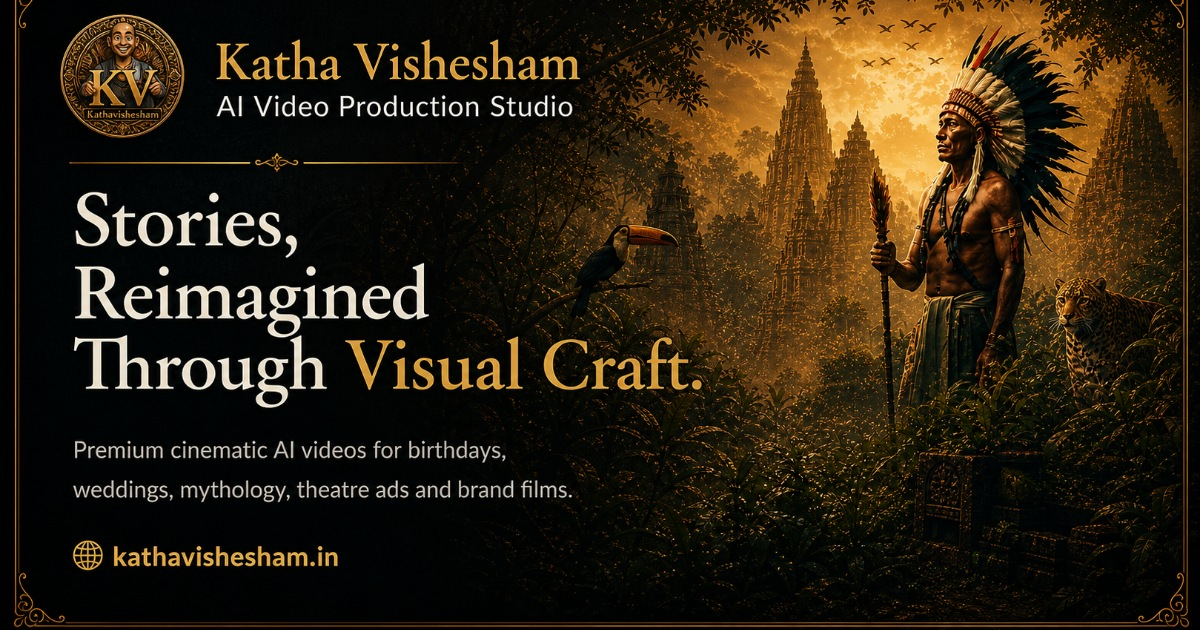
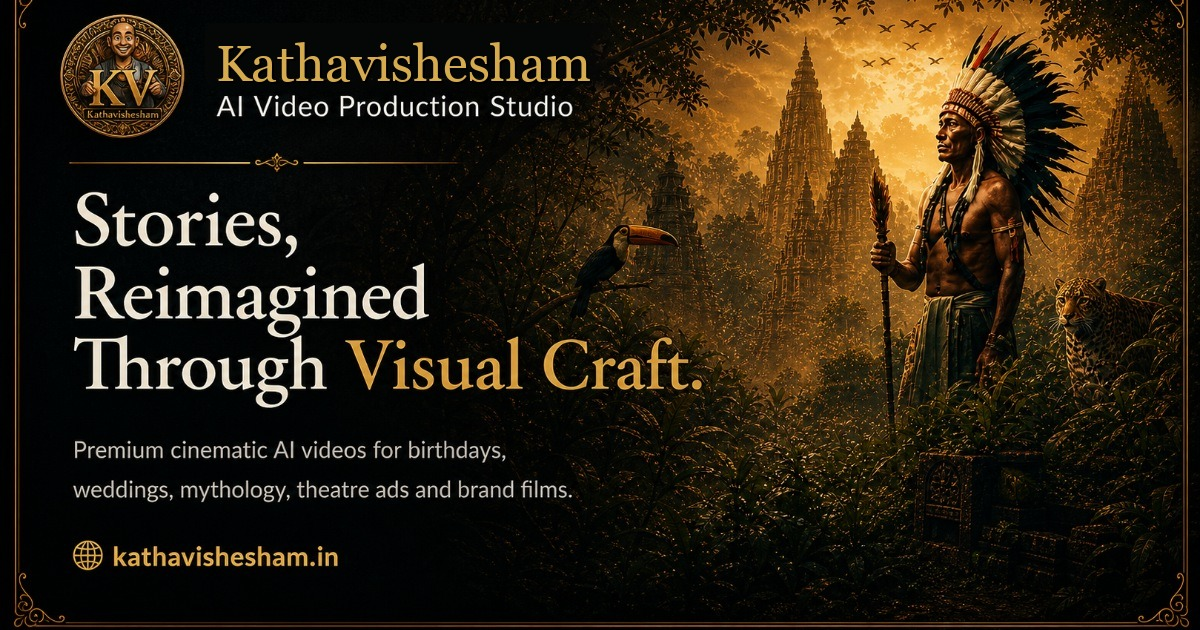
Rename brand to Kathavishesham

Changed region(s): [[0.185, 0.0603, 0.4933, 0.1508], [0.4933, 0.0603, 0.5242, 0.0905]]

diff --git a/index.html b/index.html
@@ -5,33 +5,33 @@
     <meta name="viewport" content="width=device-width, initial-scale=1.0" />
     <meta
       name="description"
-      content="Katha Vishesham creates cinematic AI videos for birthdays, weddings, memories, mythological stories, theatre ads and brand films. WhatsApp the studio for fast custom packages."
+      content="Kathavishesham creates cinematic AI videos for birthdays, weddings, memories, mythological stories, theatre ads and brand films. WhatsApp the studio for fast custom packages."
     />
     <meta name="robots" content="index, follow, max-image-preview:large, max-video-preview:-1, max-snippet:-1" />
-    <meta name="author" content="Katha Vishesham" />
+    <meta name="author" content="Kathavishesham" />
     <meta name="theme-color" content="#070706" />
     <link rel="canonical" href="https://kathavishesham.vercel.app/" />
-    <meta property="og:title" content="Katha Vishesham | Cinematic AI Video Production Studio" />
+    <meta property="og:title" content="Kathavishesham | Cinematic AI Video Production Studio" />
     <meta
       property="og:description"
       content="Premium AI-assisted cinematic storytelling for birthdays, memories, weddings, mythological stories, theatre ads and brand films."
     />
     <meta property="og:url" content="https://kathavishesham.vercel.app/" />
-    <meta property="og:site_name" content="Katha Vishesham" />
-    <meta property="og:image" content="https://kathavishesham.vercel.app/og-katha-vishesham-v2.jpg" />
-    <meta property="og:image:secure_url" content="https://kathavishesham.vercel.app/og-katha-vishesham-v2.jpg" />
+    <meta property="og:site_name" content="Kathavishesham" />
+    <meta property="og:image" content="https://kathavishesham.vercel.app/og-kathavishesham-v2.jpg" />
+    <meta property="og:image:secure_url" content="https://kathavishesham.vercel.app/og-kathavishesham-v2.jpg" />
     <meta property="og:image:width" content="1200" />
     <meta property="og:image:height" content="630" />
-    <meta property="og:image:alt" content="Katha Vishesham cinematic AI video production studio preview card with kathavishesham.in" />
+    <meta property="og:image:alt" content="Kathavishesham cinematic AI video production studio preview card with kathavishesham.in" />
     <meta property="og:type" content="website" />
     <meta name="twitter:card" content="summary_large_image" />
-    <meta name="twitter:title" content="Katha Vishesham | Cinematic AI Video Production Studio" />
+    <meta name="twitter:title" content="Kathavishesham | Cinematic AI Video Production Studio" />
     <meta
       name="twitter:description"
       content="AI-assisted cinematic videos for memories, weddings, mythological stories, theatre ads and brand films."
     />
-    <meta name="twitter:image" content="https://kathavishesham.vercel.app/og-katha-vishesham-v2.jpg" />
-    <title>Katha Vishesham | Cinematic AI Video Production Studio in India</title>
+    <meta name="twitter:image" content="https://kathavishesham.vercel.app/og-kathavishesham-v2.jpg" />
+    <title>Kathavishesham | Cinematic AI Video Production Studio in India</title>
     <link rel="icon" href="/favicon.ico" sizes="any" />
     <link rel="icon" type="image/png" href="/assets/favicon.png" />
     <link rel="apple-touch-icon" href="/apple-touch-icon.png" />
@@ -50,12 +50,12 @@
           {
             "@type": ["Organization", "ProfessionalService"],
             "@id": "https://kathavishesham.vercel.app/#studio",
-            "name": "Katha Vishesham",
-            "alternateName": "Katha Vishesham AI Video Production Studio",
+            "name": "Kathavishesham",
+            "alternateName": "Kathavishesham AI Video Production Studio",
             "url": "https://kathavishesham.vercel.app/",
             "logo": "https://kathavishesham.vercel.app/brand-logo.png",
-            "image": "https://kathavishesham.vercel.app/og-katha-vishesham-v2.jpg",
-            "description": "Katha Vishesham is an AI-assisted cinematic video production studio creating videos for birthdays, memories, weddings, mythological stories, theatre ads and brand films.",
+            "image": "https://kathavishesham.vercel.app/og-kathavishesham-v2.jpg",
+            "description": "Kathavishesham is an AI-assisted cinematic video production studio creating videos for birthdays, memories, weddings, mythological stories, theatre ads and brand films.",
             "telephone": "[phone redacted]",
             "email": "[email redacted]",
             "priceRange": "₹3000-₹22000+",
@@ -81,7 +81,7 @@
             "@type": "WebSite",
             "@id": "https://kathavishesham.vercel.app/#website",
             "url": "https://kathavishesham.vercel.app/",
-            "name": "Katha Vishesham",
+            "name": "Kathavishesham",
             "publisher": {
               "@id": "https://kathavishesham.vercel.app/#studio"
             },
@@ -91,7 +91,7 @@
             "@type": "WebPage",
             "@id": "https://kathavishesham.vercel.app/#webpage",
             "url": "https://kathavishesham.vercel.app/",
-            "name": "Katha Vishesham | Cinematic AI Video Production Studio in India",
+            "name": "Kathavishesham | Cinematic AI Video Production Studio in India",
             "description": "Cinematic AI video production for birthdays, weddings, memories, mythology, theatre ads and brand films.",
             "isPartOf": {
               "@id": "https://kathavishesham.vercel.app/#website"
@@ -101,7 +101,7 @@
             },
             "primaryImageOfPage": {
               "@type": "ImageObject",
-              "url": "https://kathavishesham.vercel.app/og-katha-vishesham-v2.jpg",
+              "url": "https://kathavishesham.vercel.app/og-kathavishesham-v2.jpg",
               "width": 1200,
               "height": 630
             },
@@ -126,7 +126,7 @@
             "description": "Custom AI-assisted videos for birthdays, memories, wedding creatives, mythological stories, theatre ads, brand films and logo-led identity films.",
             "hasOfferCatalog": {
               "@type": "OfferCatalog",
-              "name": "Katha Vishesham pricing snapshot",
+              "name": "Kathavishesham pricing snapshot",
               "itemListElement": [
                 {
                   "@type": "Offer",
@@ -187,7 +187,7 @@
               },
               {
                 "@type": "Question",
-                "name": "How fast can Katha Vishesham deliver a video?",
+                "name": "How fast can Kathavishesham deliver a video?",
                 "acceptedAnswer": {
                   "@type": "Answer",
                   "text": "Short festival wishes and social videos can usually move quickly once the brief is clear. Larger brand films, wedding creatives and mythology videos depend on concept depth, voice-over and revisions."
@@ -198,7 +198,7 @@
                 "name": "Can you create mythological stories, wedding videos and theatre ads?",
                 "acceptedAnswer": {
                   "@type": "Answer",
-                  "text": "Yes. Katha Vishesham creates mythological and fantasy content, birthday and memory videos, wedding creatives, theatre advertisements, brand films and logo or branding videos."
+                  "text": "Yes. Kathavishesham creates mythological and fantasy content, birthday and memory videos, wedding creatives, theatre advertisements, brand films and logo or branding videos."
                 }
               },
               {
@@ -236,10 +236,10 @@
 
     <header class="site-header" data-header>
       <div class="shell nav-shell">
-        <a class="brand" href="#home" aria-label="Katha Vishesham home">
+        <a class="brand" href="#home" aria-label="Kathavishesham home">
           <img class="brand-mark" src="/assets/brand-logo.png" width="384" height="384" alt="" aria-hidden="true" />
           <span class="brand-copy">
-            <span>Katha Vishesham</span>
+            <span>Kathavishesham</span>
             <small>AI Video Production Studio</small>
           </span>
         </a>
@@ -727,7 +727,7 @@
 
             <div class="brief-metrics" aria-label="Studio highlights">
               <span><strong>20K+</strong>Instagram audience</span>
-              <div class="metric-socials" aria-label="Follow Katha Vishesham">
+              <div class="metric-socials" aria-label="Follow Kathavishesham">
                 <small>Follow the studio</small>
                 <div class="social-row social-row-compact">
                   <a href="https://www.instagram.com/kathavishesham/reels/" target="_blank" rel="noreferrer" aria-label="Instagram Reels">
@@ -758,10 +758,10 @@
     <footer class="site-footer">
       <div class="shell footer-grid">
         <div class="footer-brand">
-          <a class="brand" href="#home" aria-label="Katha Vishesham home">
+          <a class="brand" href="#home" aria-label="Kathavishesham home">
             <img class="brand-mark" src="/assets/brand-logo.png" width="384" height="384" alt="" aria-hidden="true" />
             <span class="brand-copy">
-              <span>Katha Vishesham</span>
+              <span>Kathavishesham</span>
               <small>AI Video Production Studio</small>
             </span>
           </a>
@@ -827,7 +827,7 @@
           <a href="#home">Tailored to Your Vision</a>
         </div>
       </div>
-      <div class="shell footer-bottom">© 2025 Katha Vishesham. All rights reserved.</div>
+      <div class="shell footer-bottom">© 2025 Kathavishesham. All rights reserved.</div>
     </footer>
 
     <script type="module" src="/src/main.js"></script>

diff --git a/admin.html b/admin.html
@@ -5,7 +5,7 @@
     <meta name="viewport" content="width=device-width, initial-scale=1.0" />
     <meta name="robots" content="noindex, nofollow" />
     <meta name="theme-color" content="#080807" />
-    <title>Katha Vishesham Admin</title>
+    <title>Kathavishesham Admin</title>
     <link rel="icon" href="/favicon.ico" sizes="any" />
     <link rel="icon" type="image/png" href="/assets/favicon.png" />
     <link rel="preconnect" href="https://fonts.googleapis.com" />
@@ -22,7 +22,7 @@
         <div class="login-brand">
           <img src="/assets/brand-logo.png" width="384" height="384" alt="" />
           <div>
-            <p>Katha Vishesham</p>
+            <p>Kathavishesham</p>
             <h1>Studio Admin</h1>
           </div>
         </div>
@@ -45,7 +45,7 @@
           <a class="admin-brand" href="/" aria-label="Back to website">
             <img src="/assets/brand-logo.png" width="384" height="384" alt="" />
             <span>
-              <strong>Katha Vishesham</strong>
+              <strong>Kathavishesham</strong>
               <small>Content manager</small>
             </span>
           </a>

diff --git a/api/admin/cloudinary-signature.js b/api/admin/cloudinary-signature.js
@@ -21,7 +21,7 @@ export default async function handler(req, res) {
   const cloudName = process.env.CLOUDINARY_CLOUD_NAME;
   const apiKey = process.env.CLOUDINARY_API_KEY;
   const apiSecret = process.env.CLOUDINARY_API_SECRET;
-  const folder = process.env.CLOUDINARY_UPLOAD_FOLDER || "katha-vishesham/admin";
+  const folder = process.env.CLOUDINARY_UPLOAD_FOLDER || "kathavishesham/admin";
 
   if (!cloudName || !apiKey || !apiSecret) {
     res.status(500).json({ ok: false, message: "Cloudinary is not configured on the server." });

diff --git a/README.md b/README.md
@@ -1,6 +1,6 @@
-# Katha Vishesham
+# Kathavishesham
 
-Premium one-page website for Katha Vishesham, an AI video production and cinematic storytelling studio.
+Premium one-page website for Kathavishesham, an AI video production and cinematic storytelling studio.
 
 ## Live Site
 